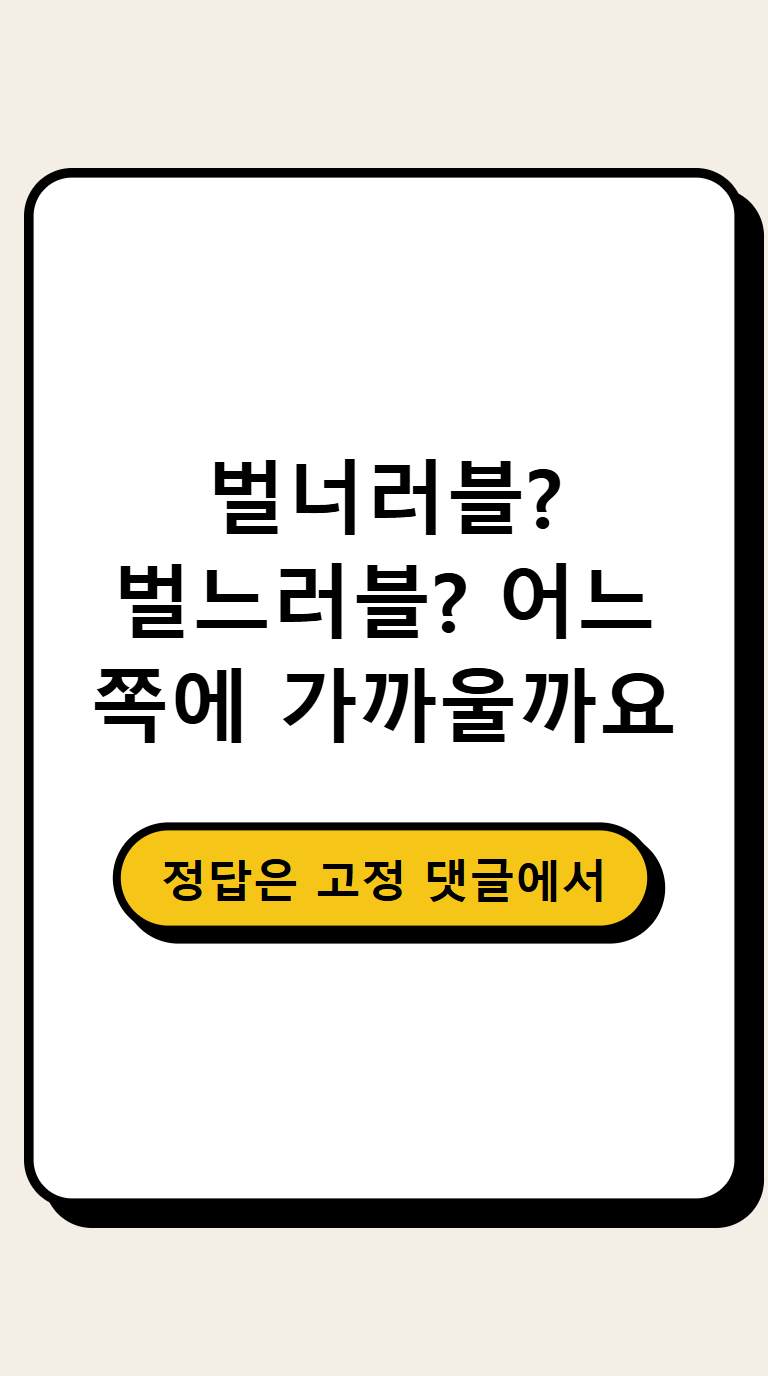
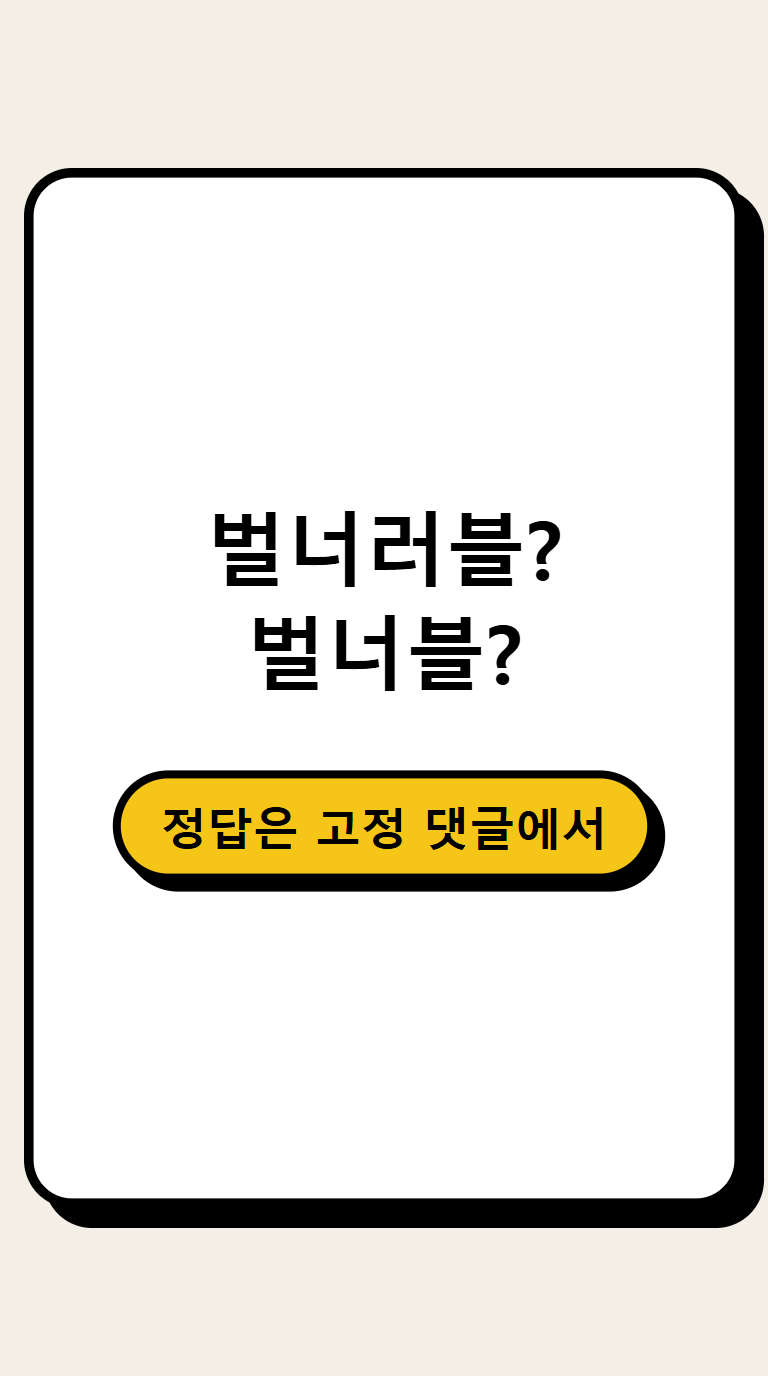
feat(data): 변형 시트에 설명글·태그·고정 댓글 칸과 패키지 복사, vulnerable 사실 확인 반영

Changed region(s): [[0.125, 0.3125, 0.875, 0.6875]]

diff --git a/knowledge/logs/2026-11.md b/knowledge/logs/2026-11.md
@@ -778,3 +778,10 @@
 - 고친 것: 44.5초 컷 대본에서 약속을 빼고, 컷 카드의 "다음 편: vulnerable" 알약도 지워 다시 렌더링했다. 40초 컷은 "정답은 고정 댓글에 있어요."로 고쳤다. 시트의 반응 지점 설명도 같이 고쳤다.
 - 남은 약속: "고정 댓글에 있어요"는 업로드 때 vulnerable 정답(사전 대조 뒤)을 고정 댓글에 적고 직접 고정해야 지켜진다. 시트 `pending`에 적었다.
 - 확인: `npm test` pass 413 / fail 0, 바뀐 카드 이미지를 눈으로 확인.
+
+## 2026-11-13 변형 시트에 설명글·태그·고정 댓글 칸 (완성형 시트 2)
+- 결정(사용자 "진행"): 설명글·태그·고정 댓글 초안은 변형 시트에 두고, 업로드 패키지는 그 초안을 복사만 한다(패키지에서 새로 쓰면 대본·썸네일과 어긋난다).
+- 코드: 리포트가 영상 조회 때 설명글·태그를 같이 저장(`meta.description`, `meta.tags`, 추가 API 비용 없음). 이 영상(SbQVBQoRciA) 리포트는 실제 API 값으로 채웠다(설명글 3줄, 태그 0개). 2판 시트는 `package` 행 필수: 설명글, 태그 8개 이상, 고정 댓글, 금지어 없음, 대본이 "고정 댓글"을 약속하면 고정 댓글 필수. 시트 화면은 경쟁 쪽을 리포트 값 그대로 보여 주고(태그 없으면 "태그 없음"), 오래된 리포트는 "저장 전"이라 밝힌다. `scripts/package-from-sheet.mjs <영상ID> <폴더>`가 제목(고른 1개)·설명글·태그·고정 댓글을 패키지 파일로 복사하고 이미 있는 파일은 덮어쓰지 않는다.
+- 사실 확인(vulnerable): Merriam-Webster가 미국식 ˈvəl-n(ə-)rə-bəl(4마디)과 ˈvəl-nər-bəl(3마디)을 싣는다고 검색 결과로 확인했다. 사전 페이지는 직접 열지 못했다(WebFetch 403). 그래서 퀴즈를 "벌너러블 vs 벌느러블"(둘 다 4마디, 사실과 안 맞음)에서 "벌너러블(4마디) vs 벌너블(3마디)"로 고치고 40초 컷 카드·대본을 다시 만들었다. 영국식은 믿을 만한 사전 출처를 못 얻어 고정 댓글에 "확인하지 못했다"고 쓴다.
+- 남은 것: 단어별 태그가 실제 검색어인지 대시보드 검색어 데이터와 대조 전. M-W 직접 열람 전에는 "사전에 실려 있다" 이상의 단정 금지. 패키지 만들기는 제목 선택 뒤.
+- 확인: `npm test` pass 415 / fail 0, 화면 검사 통과, 브라우저에서 새 칸 표시 확인.
